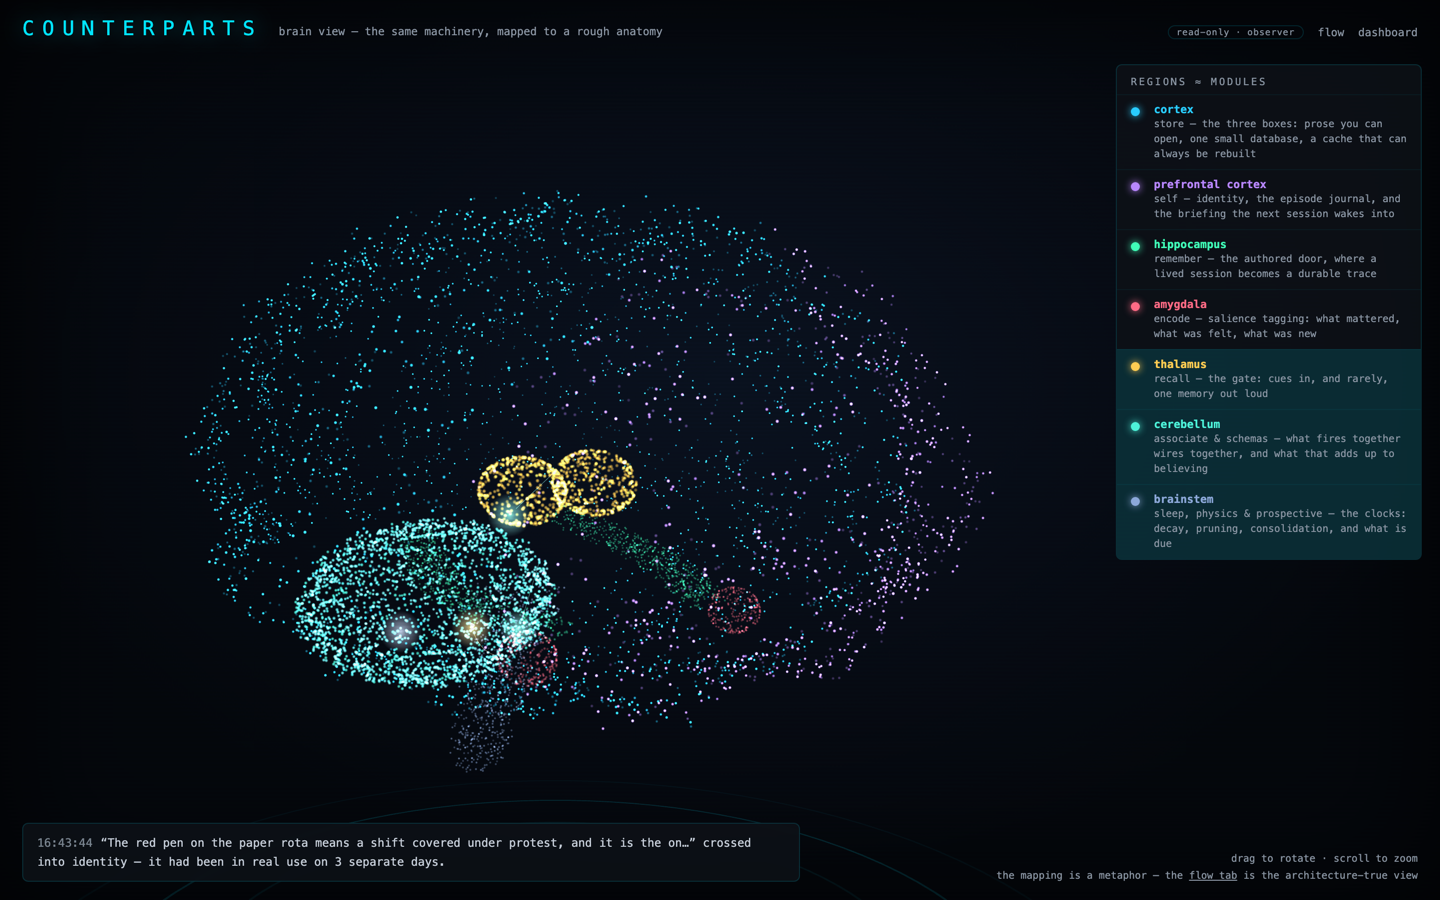
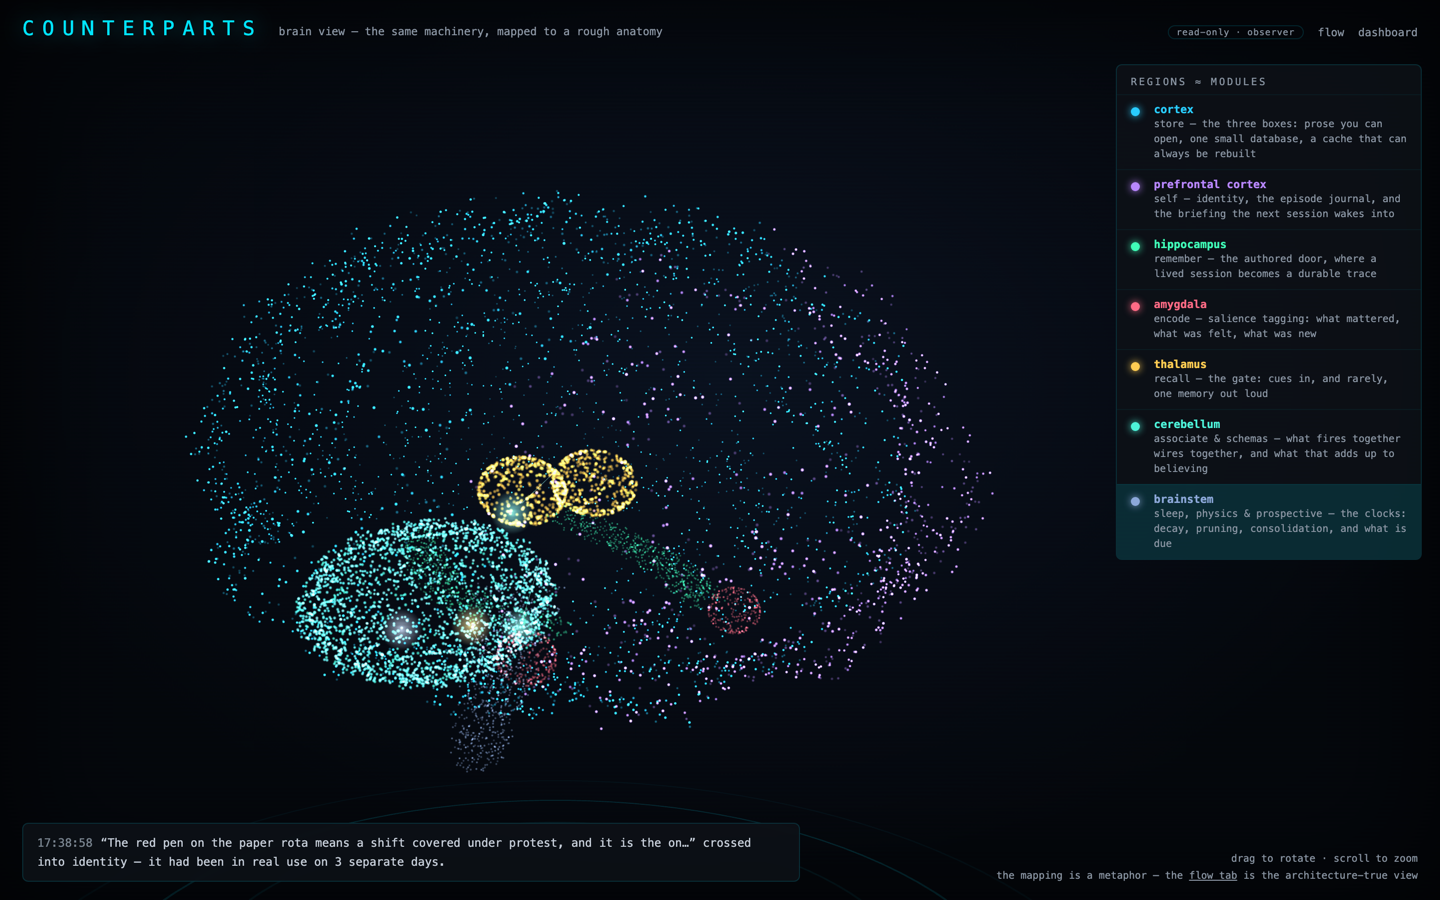
The overview counted beliefs as memories
`census()` walks every live row that is not the journal, and that includes
schema rows — the entities and the beliefs about them. So the headline
tile read 145 while `counterparts status` said 121 memories beside 24
beliefs and entities, on the same store, in the same second. Two of this
product's own surfaces disagreeing about its most basic number is worse
than either number being wrong.

The census still keeps both populations — the bands, the kinds and the
constellation are true of a belief exactly as they are of a memory, and
the physics runs on both — but each row now says which it is, and every
surface that uses the word "memories" counts only memories: the tile, the
opening sentence, `/api/pulse`, and the flow diagram's STORE and REMEMBER
nodes. Beliefs and entities get a tile of their own beside the first,
because 24 of them is worth knowing and hiding them would be the other
half of the same mistake.

The test reads the definition off the store rather than off either
surface — live, not archived, not the journal, not a schema row — so the
console and the dashboard are held to one rule instead of to each other.

diff --git a/src/adapters/dashboard/web/views.ts b/src/adapters/dashboard/web/views.ts
@@ -74,6 +74,16 @@ export interface MemoryLine {
   readonly promoted: boolean;
   readonly pressure: number;
   readonly archived: string | null;
+  /**
+   * True for a `schema` row — an entity, or a belief about one.
+   *
+   * It is in this census because the physics runs on it like anything else and
+   * every distribution on the memories page should cover it. It is NOT a
+   * memory, and counting it as one made the overview's headline disagree with
+   * the console: 145 against `counterparts status`'s 121 memories plus 24
+   * beliefs and entities, on the same store, at the same moment.
+   */
+  readonly schema: boolean;
   /** True when the row would not read at all — listed, never dropped. */
   readonly unreadable: boolean;
 }
@@ -119,6 +129,7 @@ function census(src: DashboardSource, opts: CensusOptions = {}): MemoryLine[] {
         promoted: physics.promotedIdentity === true,
         pressure: physics.pressure,
         archived: row.archived === 1 ? (row.archived_reason ?? "archived") : null,
+        schema: row.type === "schema",
         unreadable: false,
       });
     } catch {
@@ -141,6 +152,7 @@ function census(src: DashboardSource, opts: CensusOptions = {}): MemoryLine[] {
         promoted: row.promoted_identity === 1,
         pressure: row.pressure,
         archived: row.archived === 1 ? (row.archived_reason ?? "archived") : null,
+        schema: row.type === "schema",
         unreadable: true,
       });
     }
@@ -166,6 +178,12 @@ function countMap<T extends string>(rows: readonly { readonly [K in keyof Memory
 function absenceFor(count: number, everAsked: boolean): string | null {
   if (count > 0) return null;
   return everAsked ? NONE : NEVER;
+}
+
+/** Live memories, journal and schema rows excluded. The number the console
+ *  prints after `Memories:`, and the number every surface here must agree on. */
+function memoriesHeld(src: DashboardSource): number {
+  return census(src).filter((r) => !r.schema).length;
 }
 
 function eventsNamed(src: DashboardSource, name: string): number {
@@ -296,6 +314,12 @@ export function overviewView(src: DashboardSource, feedLimit = FEED_LIMIT): Over
   const store = src.store;
   const day = store.livedDay();
   const rows = census(src);
+  // A SCHEMA ROW IS NOT A MEMORY. The census keeps both, because the bands and
+  // kinds below are true of both and the physics runs on both — but the number
+  // in the headline tile is the one a person compares against the console, and
+  // the console says memories. See `MemoryLine.schema`.
+  const held = rows.filter((r) => !r.schema);
+  const beliefs = rows.length - held.length;
   const archived = census(src, { includeArchived: true }).filter((r) => r.archived !== null);
   const journal = chapters(src, 5);
   const journalCount = store.list().filter((id) => {
@@ -320,7 +344,14 @@ export function overviewView(src: DashboardSource, feedLimit = FEED_LIMIT): Over
       accent: "cyan",
       absent: day === 0,
     },
-    { label: "memories held", value: String(rows.length), note: "live, journal excluded", accent: "cyan", absent: rows.length === 0 },
+    { label: "memories held", value: String(held.length), note: "live, journal excluded", accent: "cyan", absent: held.length === 0 },
+    {
+      label: "beliefs and entities",
+      value: String(beliefs),
+      note: "what the schemas are made of — held like memories, counted apart",
+      accent: "teal",
+      absent: beliefs === 0,
+    },
     { label: "archived", value: String(archived.length), note: "held, not gone", accent: "teal", absent: archived.length === 0 },
     { label: "journal entries", value: String(journalCount), note: "chapters — these do not decay", accent: "purple", absent: journalCount === 0 },
     { label: "identity band", value: String(e.identity.length), note: "what strength earned", accent: "purple", absent: e.identity.length === 0 },
@@ -351,7 +382,8 @@ export function overviewView(src: DashboardSource, feedLimit = FEED_LIMIT): Over
   const opening =
     day === 0 && rows.length === 0
       ? "I have not lived a day yet. Everything below is what I would be able to tell you, and the honest word for how much of it I know is on each panel."
-      : `I have lived ${day} ${day === 1 ? "day" : "days"}. I am holding ${rows.length} ${rows.length === 1 ? "memory" : "memories"}` +
+      : `I have lived ${day} ${day === 1 ? "day" : "days"}. I am holding ${held.length} ${held.length === 1 ? "memory" : "memories"}` +
+        (beliefs === 0 ? "" : ` and ${beliefs} ${beliefs === 1 ? "belief or entity" : "beliefs and entities"}`) +
         (archived.length === 0 ? "" : `, with ${archived.length} more archived`) +
         (journalCount === 0 ? "." : `, beside ${journalCount} journal ${journalCount === 1 ? "entry" : "entries"} that do not decay.`);
 
@@ -664,7 +696,7 @@ export function memoriesView(src: DashboardSource, opts: { limit?: number } = {}
     }),
     hubs: hubs(src, 15),
     hubsAbsent: hubs(src, 1).length === 0 ? (everLived ? NONE : NEVER) : null,
-    note: "Every dot is one memory: how many lived days old across, how strong up, how much it mattered at encoding as its size. Colour is the band it is in today, computed now — not the band it was born into.",
+    note: "Every dot is one memory — or one of the beliefs and entities the schemas hold, which decay and consolidate the same way and are counted apart only where a headline says memories. How many lived days old across, how strong up, how much it mattered at encoding as its size. Colour is the band it is in today, computed now — not the band it was born into.",
   };
 }
 
@@ -1247,7 +1279,9 @@ export interface FlowView {
 
 export function flowView(src: DashboardSource, feedLimit = 24): FlowView {
   const store = src.store;
-  const rows = census(src);
+  // MEMORIES, not every row: the STORE node says "N memories held" and the
+  // overview's tile says the same words, so they had better be the same number.
+  const rows = census(src).filter((r) => !r.schema);
   const day = store.livedDay();
   const activity = activityView(src, { limit: feedLimit });
   const counts = new Map<NodeKey, number>();
@@ -1408,7 +1442,7 @@ export function nodeDetail(src: DashboardSource, key: string, limit = 8): NodeDe
     unloggedPath: UNLOGGED_PATH[node.key] ?? null,
     recent,
     recentAbsent: recent.length === 0 ? (names.length === 0 ? null : everLived ? NONE : NEVER) : null,
-    state: nodeState(src, node.key, rows.length, census(src).length, store.livedDay()),
+    state: nodeState(src, node.key, rows.length, memoriesHeld(src), store.livedDay()),
   };
 }
 
@@ -1597,7 +1631,7 @@ export function pulse(src: DashboardSource): { day: number; memories: number; ev
   const activity = activityView(src, { limit: 1 });
   return {
     day: src.store.livedDay(),
-    memories: census(src).length,
+    memories: memoriesHeld(src),
     events: activity.total,
     lastSeq: activity.lastSeq,
   };

diff --git a/test/dashboard-web.test.ts b/test/dashboard-web.test.ts
@@ -38,6 +38,7 @@ import { fileURLToPath } from "node:url";
 
 import { Counterpart } from "../src/core/counterpart.js";
 import { FRAMING, LANE_ORDER } from "../src/core/self/index.js";
+import { isJournal } from "../src/core/sleep/index.js";
 import { Dashboard, DURABLE_EVENT_NAMES, NEVER, NONE, sourceOf } from "../src/adapters/dashboard/index.js";
 import type { DashboardSource } from "../src/adapters/dashboard/index.js";
 import { EVENT_NODE, FLOW_EDGES, FLOW_NODES, NODE_KEYS, nodeOf } from "../src/adapters/dashboard/web/flow.js";
@@ -759,6 +760,41 @@ describe("the shapes the page draws with", () => {
       const detail = get(d.src, "/api/node?key=encode").json;
       expect(String(detail["unloggedPath"]).length).toBeGreaterThan(80);
       expect(String(detail["unloggedPath"])).toContain("crash-sweep");
+    } finally {
+      d.close();
+    }
+  });
+
+  test("`memories held` counts memories — beliefs and entities are counted apart", () => {
+    const d = open(richDir);
+    try {
+      // The definition, read off the store itself rather than off either
+      // surface: live, not archived, not the journal, not a schema row. The
+      // console prints this number after `Memories:`; the overview printed the
+      // whole population instead — 145 against 121 on the same store, at the
+      // same moment, which is the kind of disagreement that makes a reader
+      // stop trusting both.
+      let memories = 0;
+      let beliefs = 0;
+      for (const id of d.src.store.list({ archived: false })) {
+        const row = d.src.store.row(id);
+        if (row === undefined || isJournal(row)) continue;
+        if (row.type === "schema") beliefs += 1;
+        else memories += 1;
+      }
+      expect(beliefs).toBeGreaterThan(0);
+
+      const tiles = get(d.src, "/api/overview").json["tiles"] as { label: string; value: string }[];
+      const tile = (label: string): string => tiles.find((t) => t.label === label)?.value ?? "";
+      expect(tile("memories held")).toBe(String(memories));
+      expect(tile("beliefs and entities")).toBe(String(beliefs));
+
+      // And every other surface that says the word agrees with the tile.
+      expect(get(d.src, "/api/pulse").json["memories"]).toBe(memories);
+      const nodes = get(d.src, "/api/flow").json["nodes"] as { key: string; state: string }[];
+      expect(nodes.find((n) => n.key === "store")?.state).toBe(`${memories} memories held`);
+      expect(nodes.find((n) => n.key === "remember")?.state).toBe(`${memories} came through`);
+      expect(String(get(d.src, "/api/overview").json["opening"])).toContain(`${memories} memories`);
     } finally {
       d.close();
     }
